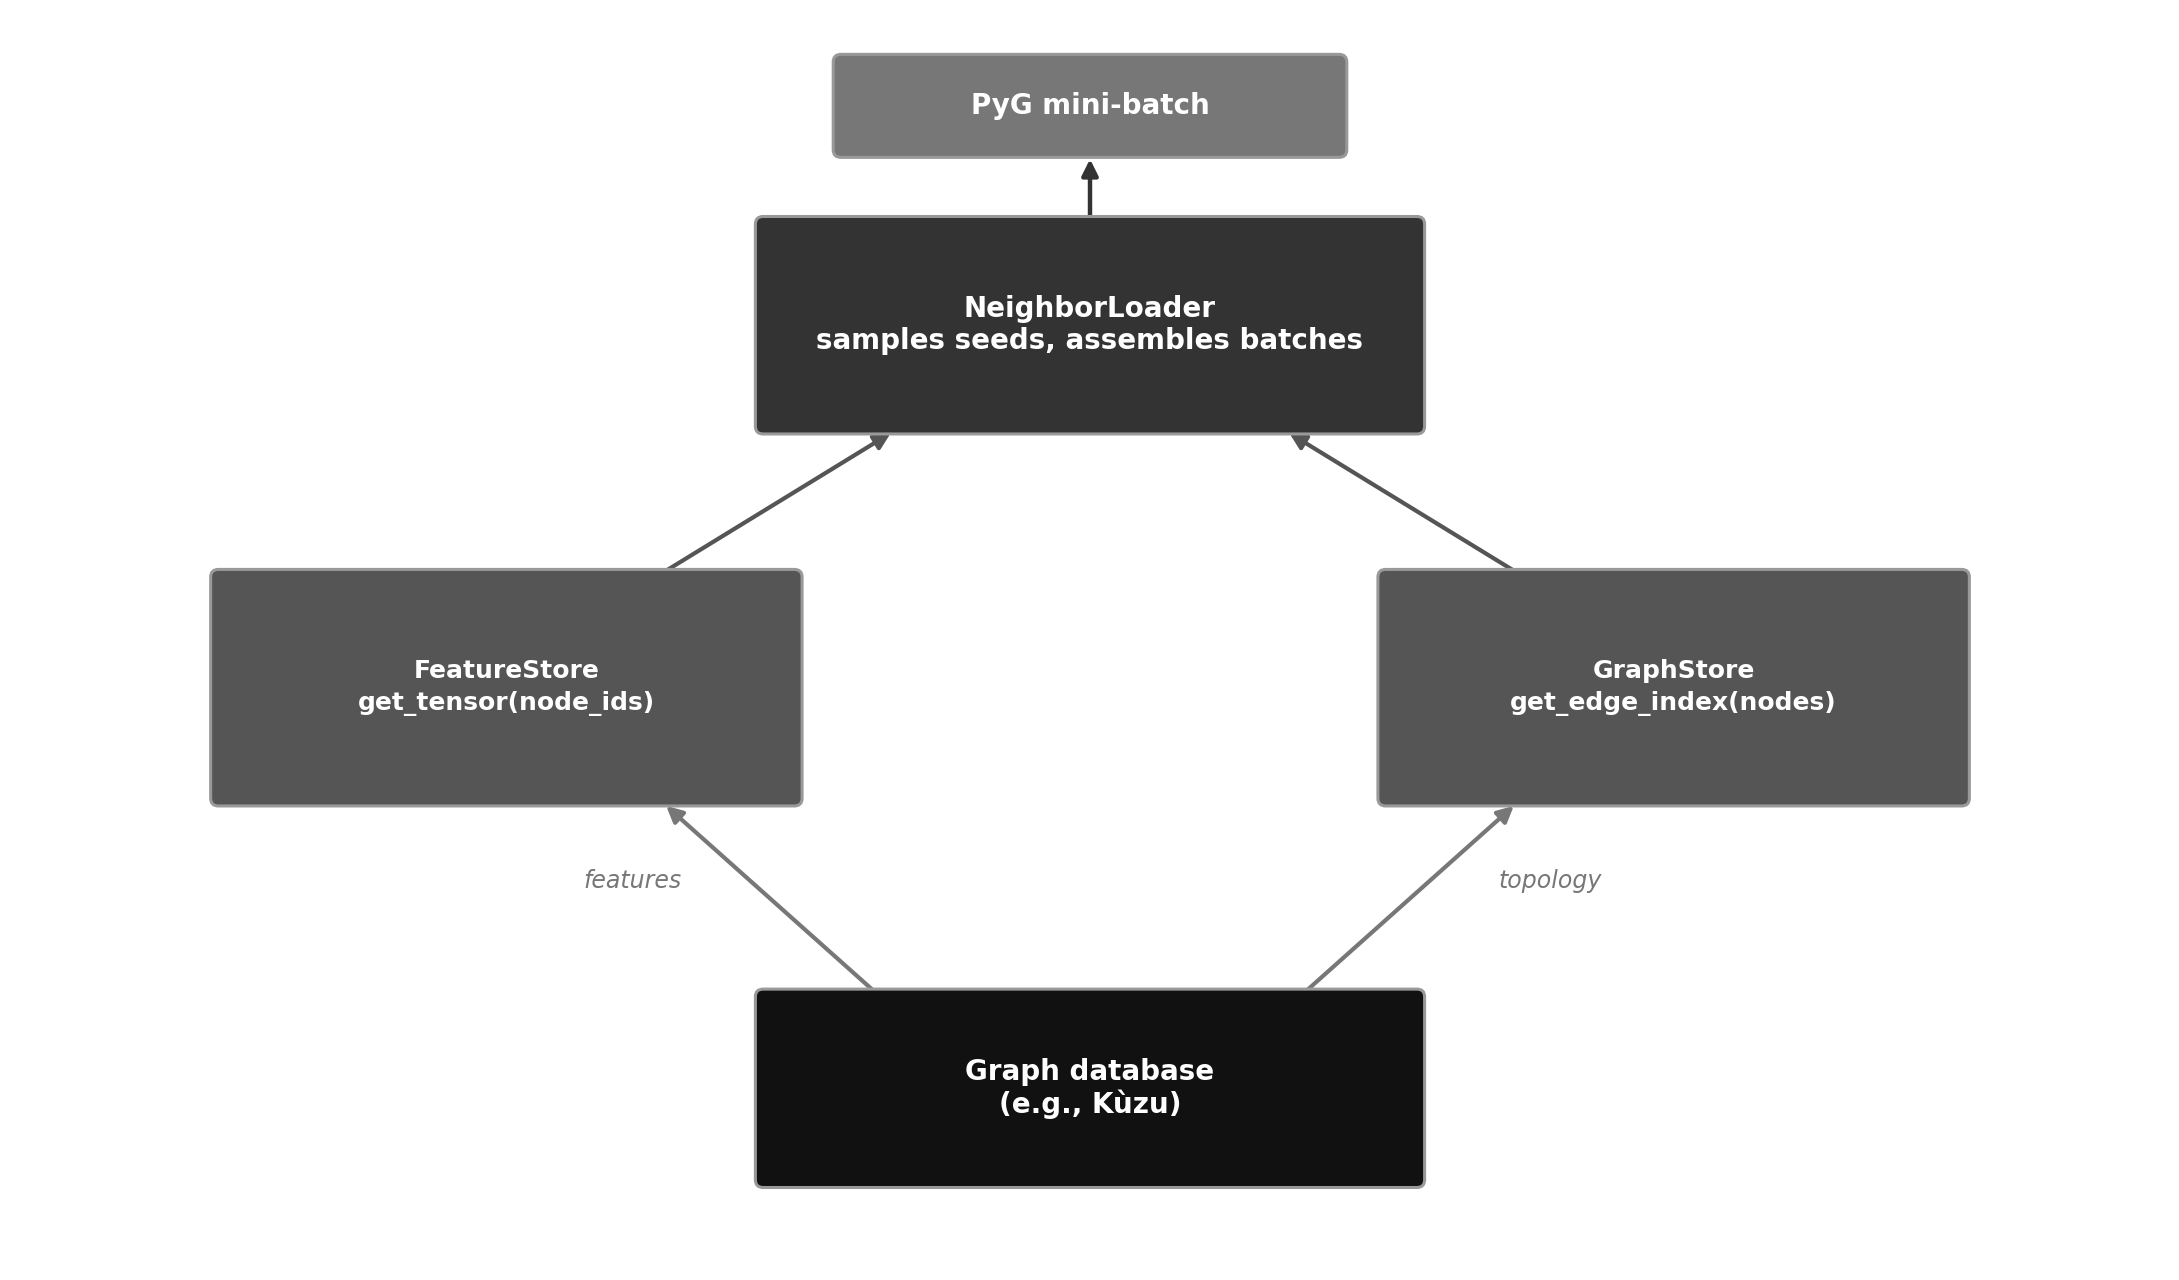
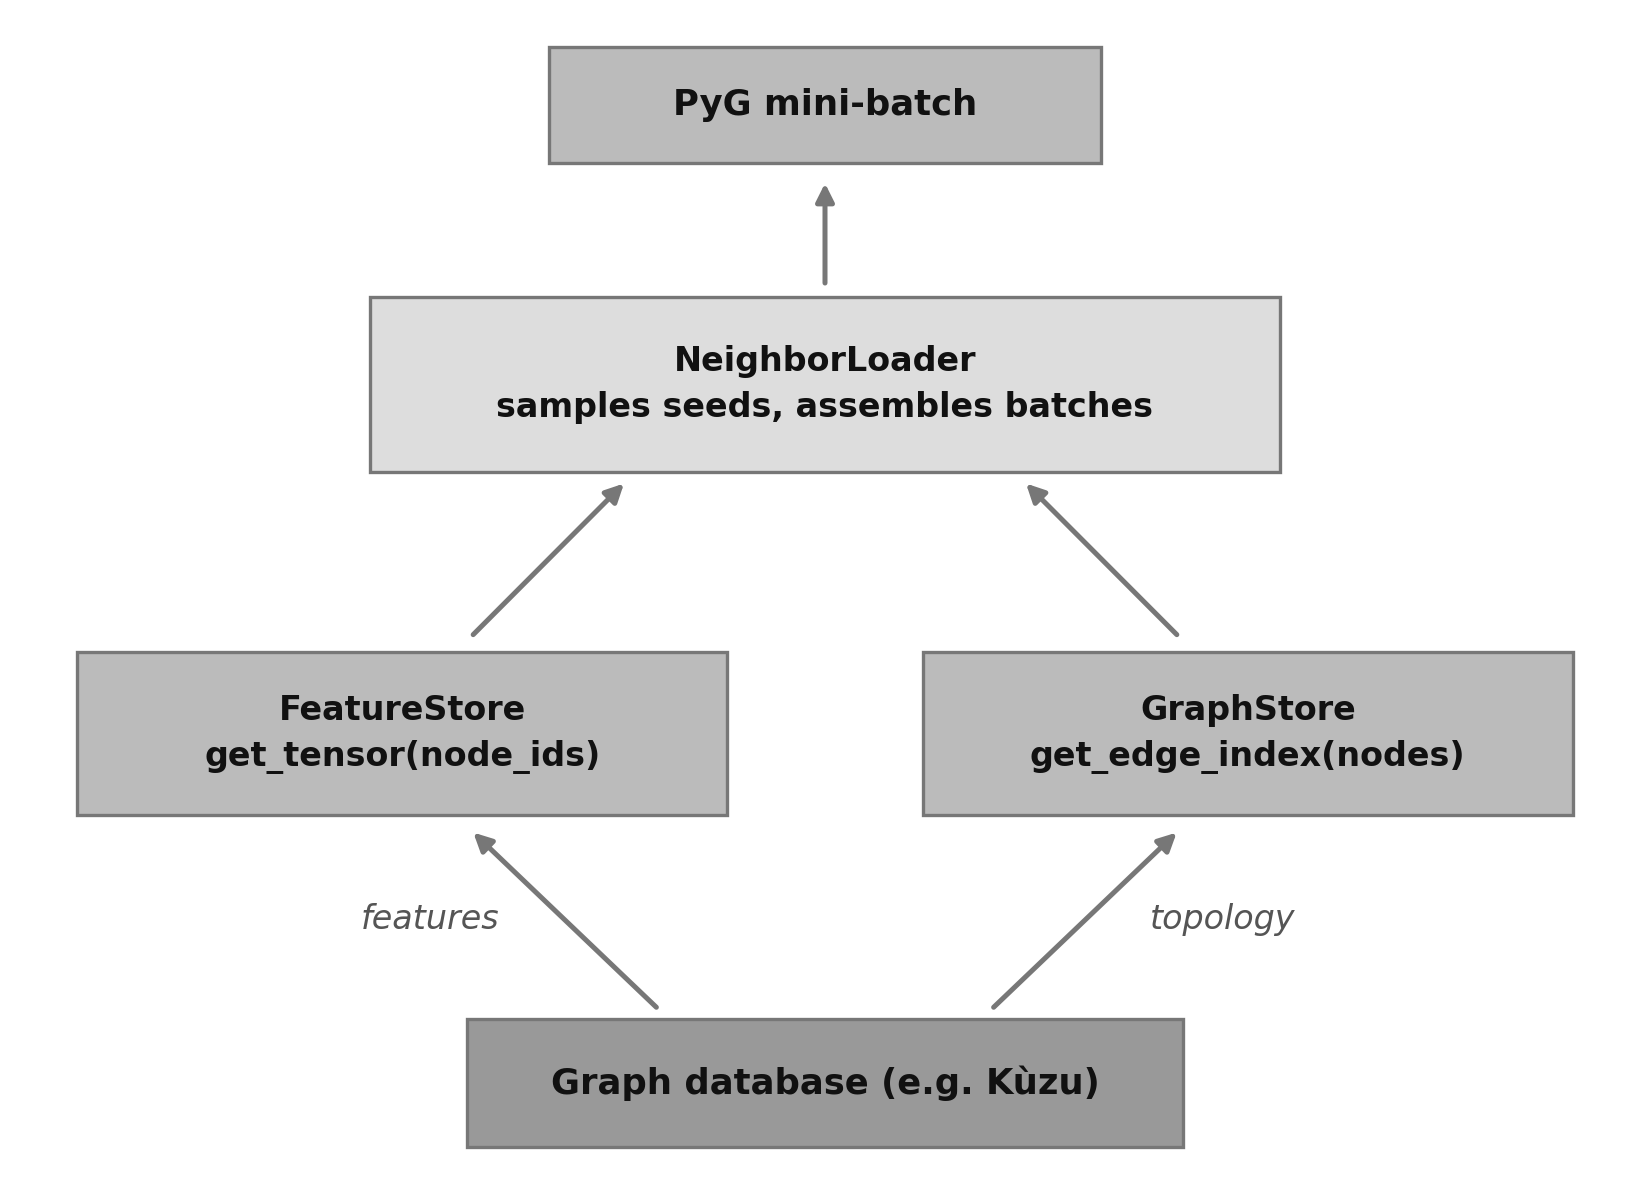
Redraw Chapter 9's two figures at the printed width
Both were rejected, 9.1 for readability and 9.2 for overlapping content.
Figure 9.1 ran its five stages across 12 inches; at the 5.5 the book prints
that leaves each stage an inch, and "PygNodePropPredDataset" alone is wider
than that, so the pipeline now runs down the page. constrained_layout gives
9.2 the room its boxes were overlapping in.

The script also wrote into ./output, so the figures landed wherever it was
launched from and the index never saw them; they go beside the script now.

diff --git a/Chapter09/figures/generate_figures.py b/Chapter09/figures/generate_figures.py
@@ -1,115 +1,107 @@
 """
-Chapter 9 - All figures in grayscale.
-Figs 9.1-9.2: pure matplotlib diagrams (conceptual, no data).
+Chapter 9 - Figures 9.1 and 9.2, drawn at the width they are printed.
 
-Titles and in-figure captions are omitted on purpose: the chapter carries
-that text in the figure caption below each image.
+Both are conceptual diagrams: no data, nothing measured. Titles and in-figure
+captions are omitted on purpose, because the chapter carries that text in the
+caption below each image.
+
+    python figures/generate_figures.py
 """
 
-import matplotlib
-matplotlib.use('Agg')
-import matplotlib.pyplot as plt
-from matplotlib.patches import FancyBboxPatch
 import os
+import sys
 
-OUT  = "./output"
-os.makedirs(OUT, exist_ok=True)
+import numpy as np
+from matplotlib.patches import Rectangle
 
-FONT = "DejaVu Sans"
-BG   = "white"
-G0   = "#111111"; G1 = "#333333"; G2 = "#555555"
-G3   = "#777777"; G4 = "#999999"; G5 = "#BBBBBB"; G6 = "#DDDDDD"
+sys.path.insert(0, os.path.join(os.path.dirname(os.path.abspath(__file__)),
+                                '..', '..', 'tools'))
+from bookstyle import (apply, figure, save as save_fig, FONT, BG, INK,
+                       INK_SOFT, FILLS, G3, G4, G5, G6)
 
-def save(fig, name, dpi=200):
-    fig.savefig(f"{OUT}/{name}", dpi=dpi, bbox_inches='tight',
-                facecolor=BG, edgecolor='none')
-    plt.close(fig)
+plt = apply()
+
+# The figures belong beside this script, where the index looks for them. The
+# earlier "./output" put them wherever the script happened to be launched.
+OUT = os.path.dirname(os.path.abspath(__file__))
+
+
+def save(fig, name):
+    save_fig(fig, os.path.join(OUT, name))
     print(f"  saved {name}")
 
-def rbox(ax, x, y, w, h, label, fill=G2, fc='white', fs=9, r=0.04):
-    rect = FancyBboxPatch((x-w/2, y-h/2), w, h,
-                          boxstyle=f"round,pad=0.02,rounding_size={r}",
-                          facecolor=fill, edgecolor=G4,
-                          linewidth=1.1, zorder=3)
-    ax.add_patch(rect)
-    for li, line in enumerate(label.split('\n')):
-        offset = 0.17*(li - label.count("\n")/2)
-        ax.text(x, y-offset, line, ha='center', va='center',
-                fontsize=fs, color=fc, fontweight='bold',
-                fontfamily=FONT, zorder=4)
 
-def arr(ax, x1, y1, x2, y2, color=G2, lw=1.4):
-    ax.annotate("", xy=(x2,y2), xytext=(x1,y1),
-                arrowprops=dict(arrowstyle="-|>", color=color,
-                                lw=lw, mutation_scale=12), zorder=2)
+def canvas(aspect, **kwargs):
+    fig, ax = figure(aspect=aspect, **kwargs)
+    for one in np.atleast_1d(ax).ravel():
+        one.set_facecolor(BG); one.axis('off')
+        one.set_xlim(0, 1); one.set_ylim(0, 1)
+    return fig, ax
 
 
-# ── Fig 9.1: Ingestion pipeline from OGB to Neo4j to GDS to PyG ──────────────
+def box(ax, x, y, w, h, label, fill=G6, fs=8, weight='bold', edge=G3):
+    ax.add_patch(Rectangle((x - w / 2, y - h / 2), w, h, facecolor=fill,
+                           edgecolor=edge, linewidth=0.8, zorder=3))
+    ax.text(x, y, label, ha='center', va='center', fontsize=fs, color=INK,
+            fontweight=weight, fontfamily=FONT, linespacing=1.5, zorder=4)
+
+
+def arr(ax, x1, y1, x2, y2, color=G3, lw=1.2, scale=9):
+    ax.annotate("", xy=(x2, y2), xytext=(x1, y1),
+                arrowprops=dict(arrowstyle="-|>", color=color, lw=lw,
+                                mutation_scale=scale), zorder=2)
+
+
+# ── Fig 9.1: from OGB to Neo4j to GDS to PyG ─────────────────────────────────
 print("Figure 9.1 …")
-fig, ax = plt.subplots(figsize=(12, 3.2))
-fig.patch.set_facecolor(BG); ax.set_facecolor(BG); ax.axis('off')
-ax.set_xlim(0, 12); ax.set_ylim(0, 3.2)
 
-stages = [
-    (1.4,  "OGB",   "PygNodePropPredDataset", G1),
-    (3.6,  "CSV",   "papers.csv\ncitations.csv", G2),
-    (5.8,  "Neo4j", "LOAD CSV\n:Paper, :CITES", G0),
-    (8.0,  "GDS",   "in-memory\nprojected graph", G2),
-    (10.2, "PyG",   "Data(x, y,\nedge_index)", G1),
+# The pipeline runs down the page, not across it: five stages side by side
+# leave each an inch, and "PygNodePropPredDataset" alone is wider than that.
+STAGES = [
+    ("OGB",   "PygNodePropPredDataset"),
+    ("CSV",   "papers.csv, citations.csv"),
+    ("Neo4j", "LOAD CSV → :Paper, :CITES"),
+    ("GDS",   "in-memory projected graph"),
+    ("PyG",   "Data(x, y, edge_index)"),
 ]
 
-for i, (x, title, subtitle, fill) in enumerate(stages):
-    rbox(ax, x, 2.2, 1.7, 0.55, title, fill=fill, fc='white', fs=11)
-    rbox(ax, x, 1.35, 1.7, 0.85, subtitle, fill=G6, fc=G0, fs=8)
-    if i > 0:
-        x_prev = stages[i-1][0]
-        arr(ax, x_prev+0.85, 1.65, x-0.85, 1.65, color=G2, lw=1.6)
+fig, ax = canvas(0.78)
+TOP, STEP, BH = 0.90, 0.195, 0.115
+for i, (name, detail) in enumerate(STAGES):
+    y = TOP - i * STEP
+    box(ax, 0.17, y, 0.26, BH, name, fill=FILLS[1], fs=9)
+    box(ax, 0.63, y, 0.60, BH, detail, fill=G6, fs=8, weight='normal')
+    if i:
+        arr(ax, 0.17, y + STEP - BH / 2, 0.17, y + BH / 2)
 
-fig.tight_layout()
 save(fig, "fig09_1_ingestion_pipeline.png")
 
 
-# ── Fig 9.2: PyG Remote Backend flow ─────────────────────────────────────────
+# ── Fig 9.2: the PyG remote backend ──────────────────────────────────────────
 print("Figure 9.2 …")
-fig, ax = plt.subplots(figsize=(11, 6.5))
-fig.patch.set_facecolor(BG); ax.set_facecolor(BG); ax.axis('off')
-ax.set_xlim(0, 11); ax.set_ylim(0, 6.5)
 
-# Database (bottom)
-rbox(ax, 5.5, 0.9, 3.4, 1.0, "Graph database\n(e.g., K\u00f9zu)",
-     fill=G0, fc='white', fs=10)
+fig, ax = canvas(0.72)
 
-# Two stores (middle row)
-rbox(ax, 2.5, 3.0, 3.0, 1.2,
-     "FeatureStore\nget_tensor(node_ids)", fill=G2, fc='white', fs=9)
-rbox(ax, 8.5, 3.0, 3.0, 1.2,
-     "GraphStore\nget_edge_index(nodes)", fill=G2, fc='white', fs=9)
+box(ax, 0.50, 0.08, 0.44, 0.11, "Graph database (e.g. Kùzu)",
+    fill=FILLS[2], fs=8.5)
+box(ax, 0.24, 0.38, 0.40, 0.14, "FeatureStore\nget_tensor(node_ids)",
+    fill=FILLS[1], fs=8)
+box(ax, 0.76, 0.38, 0.40, 0.14, "GraphStore\nget_edge_index(nodes)",
+    fill=FILLS[1], fs=8)
+box(ax, 0.50, 0.68, 0.56, 0.15,
+    "NeighborLoader\nsamples seeds, assembles batches", fill=FILLS[0], fs=8)
+box(ax, 0.50, 0.92, 0.34, 0.10, "PyG mini-batch", fill=G5, fs=8.5)
 
-# NeighborLoader (upper middle)
-rbox(ax, 5.5, 4.9, 3.4, 1.1,
-     "NeighborLoader\nsamples seeds, assembles batches",
-     fill=G1, fc='white', fs=10)
+arr(ax, 0.40, 0.14, 0.28, 0.30)
+arr(ax, 0.60, 0.14, 0.72, 0.30)
+ax.text(0.30, 0.22, "features", ha='right', va='center', fontsize=8,
+        color=INK_SOFT, fontfamily=FONT, fontstyle='italic')
+ax.text(0.70, 0.22, "topology", ha='left', va='center', fontsize=8,
+        color=INK_SOFT, fontfamily=FONT, fontstyle='italic')
 
-# Output batch (top)
-rbox(ax, 5.5, 6.05, 2.6, 0.5, "PyG mini-batch",
-     fill=G3, fc='white', fs=10)
+arr(ax, 0.28, 0.46, 0.38, 0.60)
+arr(ax, 0.72, 0.46, 0.62, 0.60)
+arr(ax, 0.50, 0.76, 0.50, 0.86)
 
-# DB up to the two stores
-arr(ax, 4.4, 1.4, 3.3, 2.4, color=G3, lw=1.5)
-arr(ax, 6.6, 1.4, 7.7, 2.4, color=G3, lw=1.5)
-ax.text(3.4, 1.95, "features",  ha='right', fontsize=8.5,
-        color=G3, fontfamily=FONT, fontstyle='italic')
-ax.text(7.6, 1.95, "topology",  ha='left',  fontsize=8.5,
-        color=G3, fontfamily=FONT, fontstyle='italic')
-
-# Stores up to NeighborLoader
-arr(ax, 3.3, 3.6, 4.5, 4.35, color=G2, lw=1.5)
-arr(ax, 7.7, 3.6, 6.5, 4.35, color=G2, lw=1.5)
-
-# NeighborLoader to output batch
-arr(ax, 5.5, 5.45, 5.5, 5.8, color=G1, lw=1.6)
-
-fig.tight_layout()
 save(fig, "fig09_2_remote_backend.png")
-
-print(f"\nAll figures saved to {OUT}")
+print("Done.")
